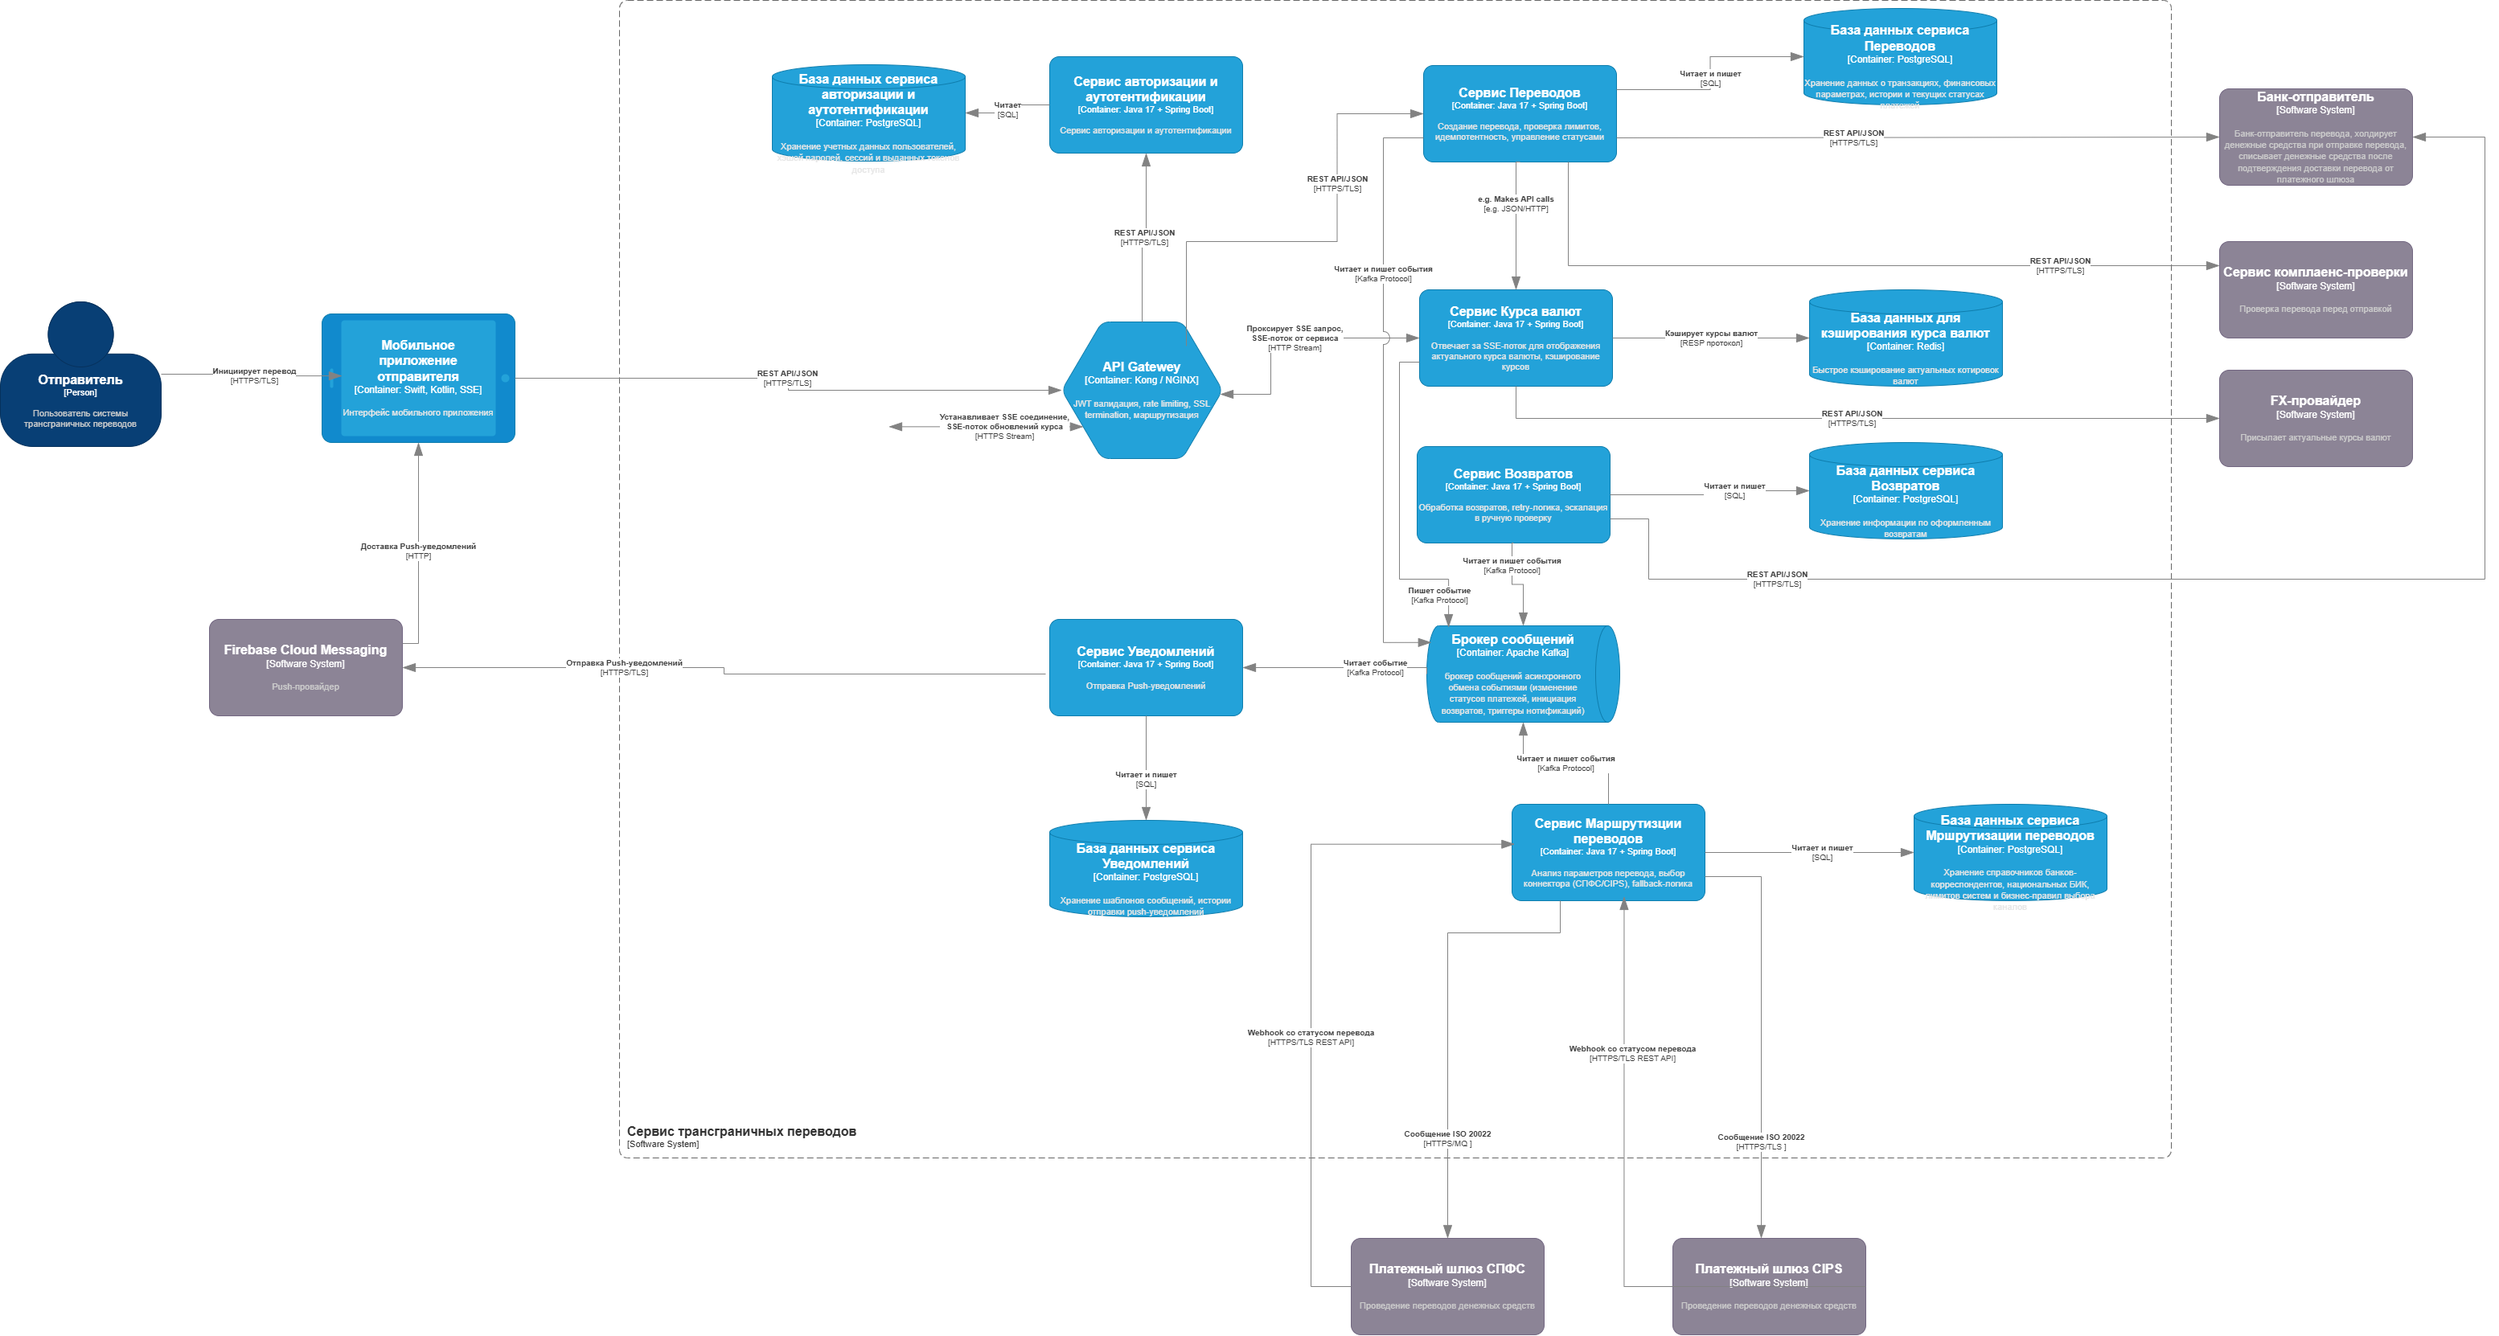
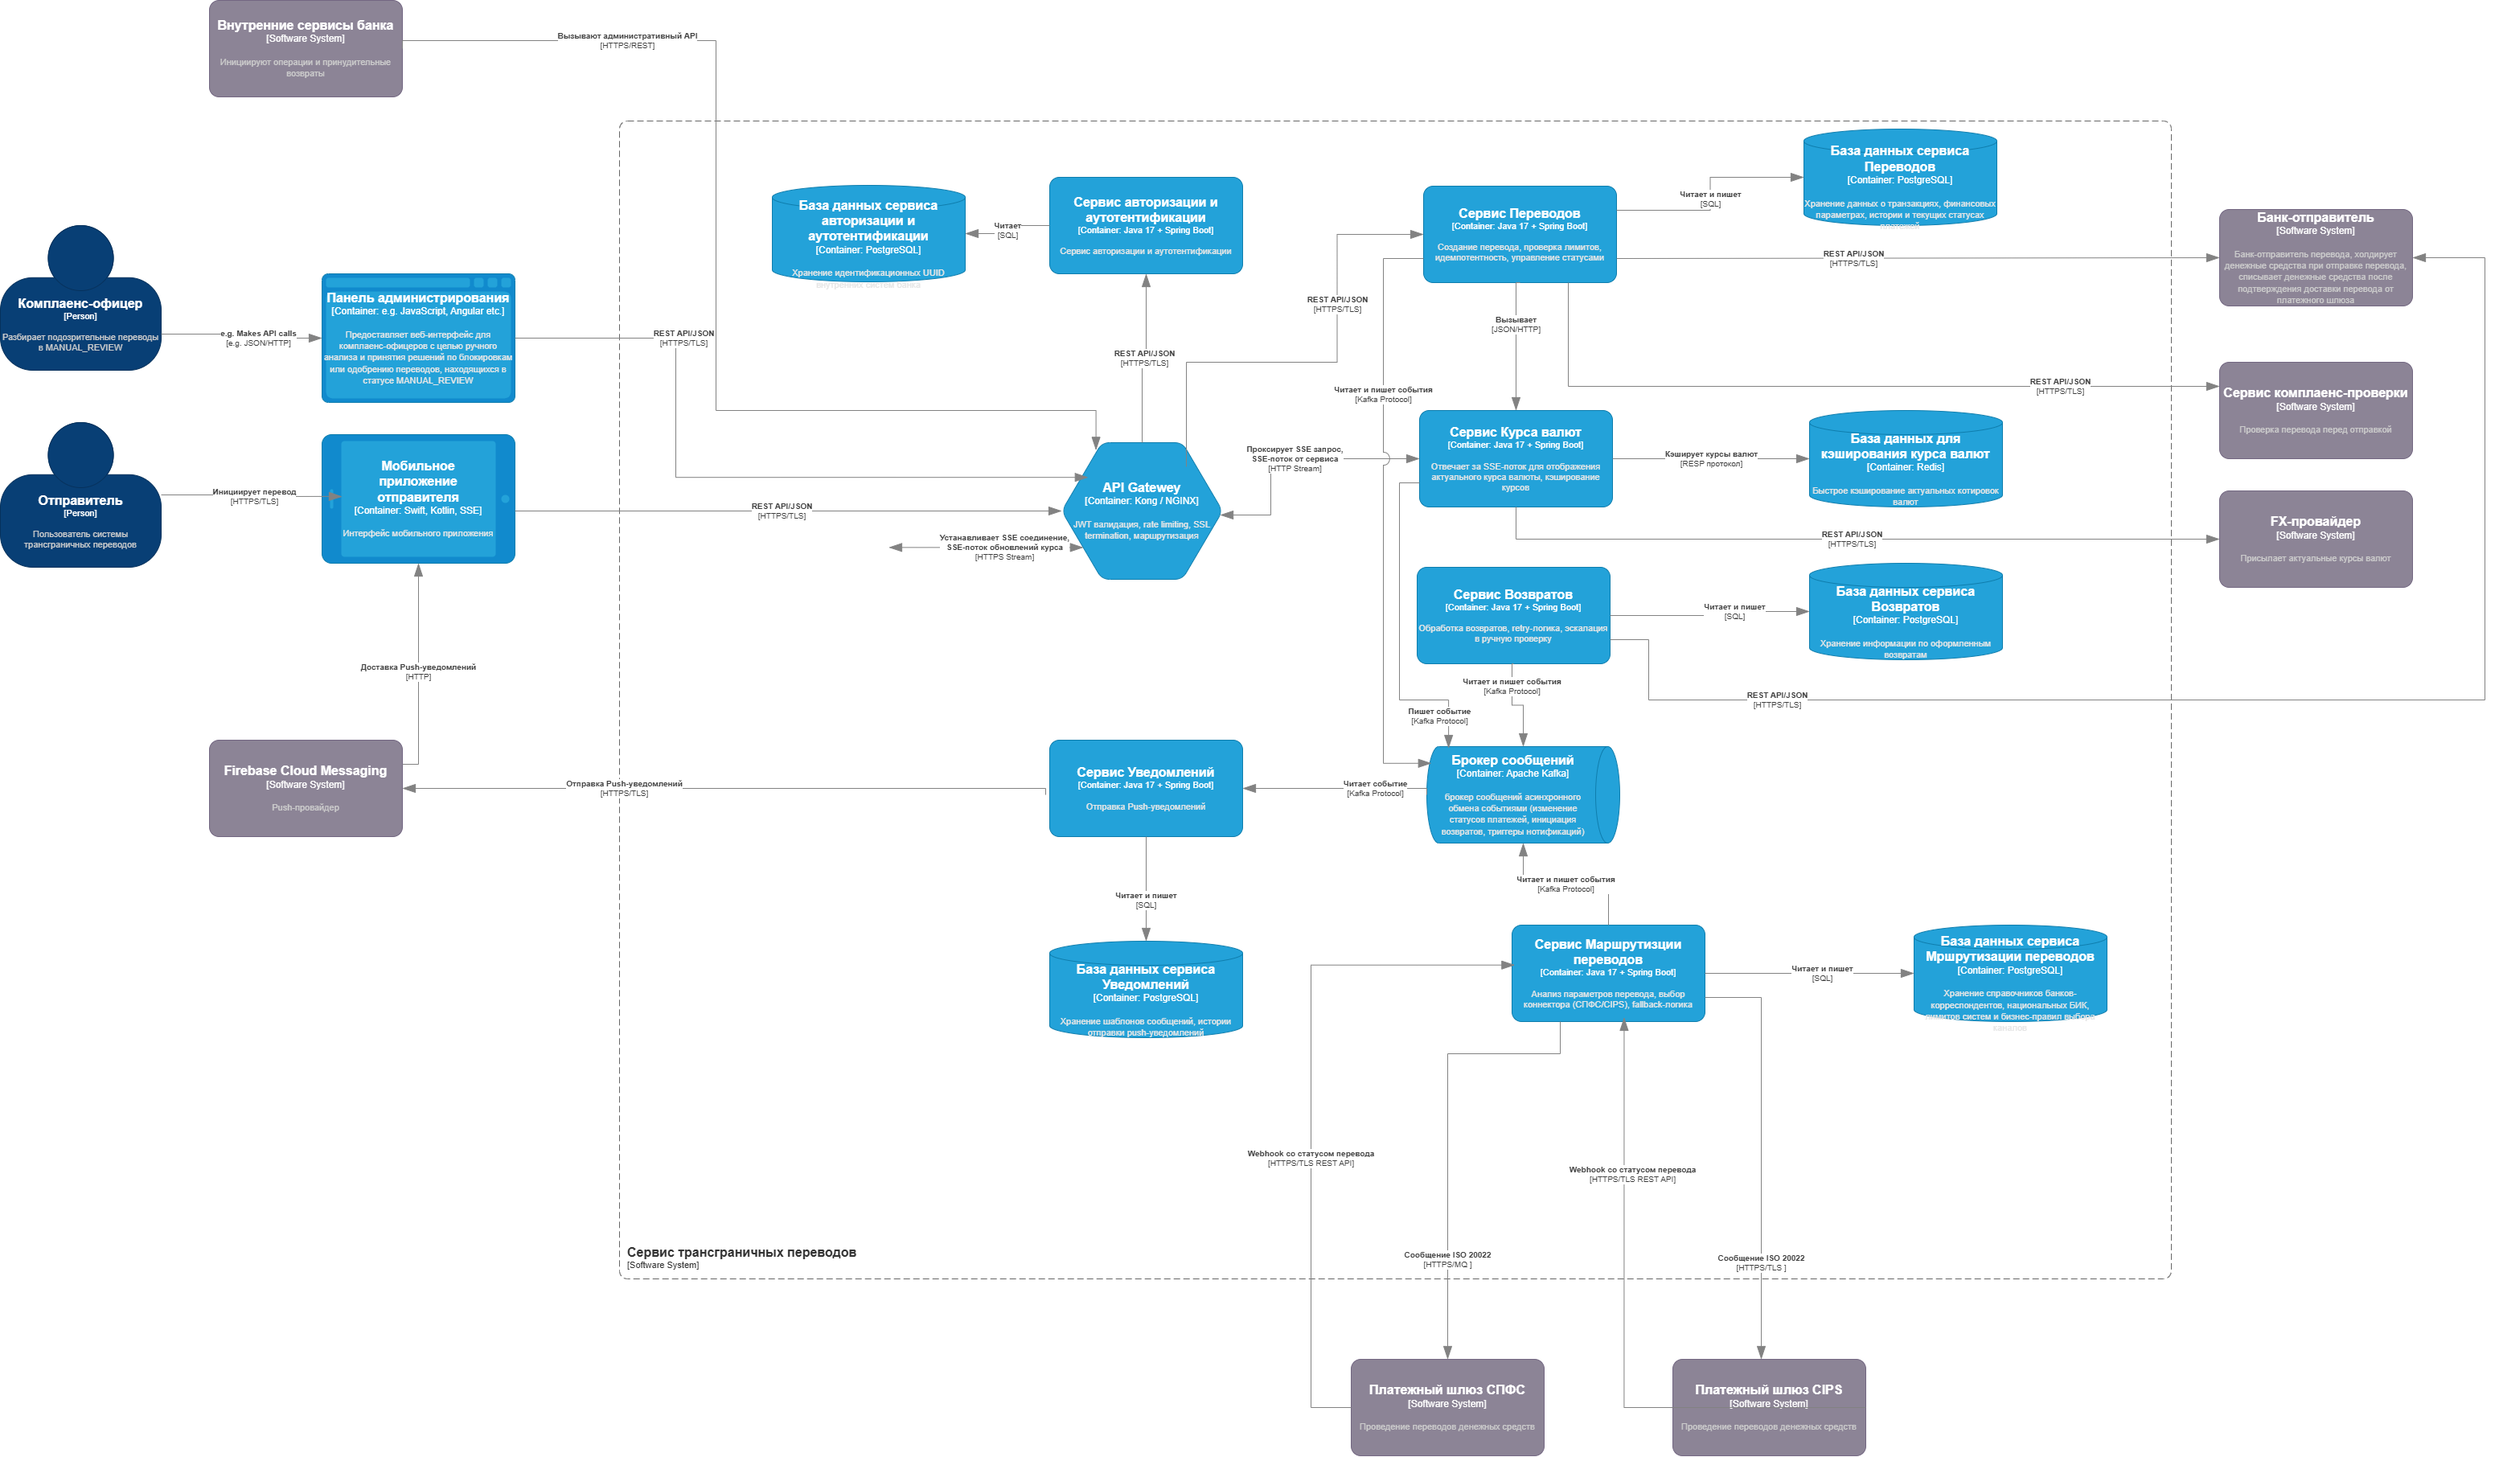
Дополнить диаграмму С4, дополнить архитектурным решением

diff --git a/02-architecture/Архитектура проекта.md b/02-architecture/Архитектура проекта.md
@@ -38,9 +38,34 @@
 
 ![C4 Уровень С1. Контекст](c4-context.png)
 
-
 ### 3.2. Уровень С2. Контейнеры
 
 Показывает систему на уровне контейнеров и их взаимодействие
 
 ![C4 Уровень С2. Контейнер](c4-container.png)
+
+## 4. Архитектурная стратегия
+
+Для сервиса трансграничных переводов выбрана микросервисная архитектура, потому что:
+
+1. Независимое масштабирование - каждый сервис можно масштабировать отдельно в зависимости от операционной нагрузки
+2. Разделение ответственности - каждый сервис отвечает за свою строго изолированную доменную область (Переводы, Маршрутизация, Возвраты, Уведомления, Курсы Валют)
+3. Технологическая гибкость - возможность использовать оптимальный стек технологий и библиотек для конкретных задач
+4. Отказоустойчивость - технический сбой или аварийное падение одного сервиса не влияет на прохождение и обработку транзакций в других изолированных компонентах системы
+5. Интеграция с внешними системами - каждый сервис может иметь свою обособленную интеграцию (МС Переводов интегрирован с Банком-отправителем и Сервисом комплаенса, а МС Маршрутизации — со шлюзами СПФС/CIPS)
+
+### Ключевые архитектурные решения
+
+1. API Gateway - единая точка входа для клиентских и внутренних запросов, обеспечивающая сквозную маршрутизацию, авторизацию (JWT/ApiKeyAuth) и защиту бэкенда
+2. Apache Kafka - брокер сообщений для асинхронной обработки событий между микросервисами, гарантирующий строгую упорядоченность доставки через ключи партиционирования
+3. Server-Sent Events (SSE) - технология однонаправленного стриминга данных по протоколу HTTP для трансляции изменений курса валют на мобильное приложение в реальном времени
+4. Redis - база данных для кэширования актуальных котировок
+5. PostgreSQL - реляционная БД для каждого сервиса для изоляции данных
+6. Transactional Outbox - паттерн гарантированной асинхронной доставки событий в брокер Kafka, исключающий потерю сообщений при временной недоступности сети или инфраструктуры
+
+### Обоснование нагрузки и количество экземпляров
+
+1. Интенсивность бизнес-транзакций - целевой объем в 50 000 переводов в месяц при стандартном банковском коэффициенте пиковой неравномерности трафика формирует расчетную пиковую нагрузку на создание операций на уровне 0.285 запросов в секунду (RPS)
+2. Пропускная способность контура UI - с учетом SSE-стриминга курсов и пагинации списков истории, сопутствующая пиковая нагрузка от мобильных клиентов составляет до 5.77 RPS
+3. Инженерный запас прочности - заложенная в требованиях пропускная способность в 100 RPS выступает фактором, гарантирующим стабильность системы при повторных запросах после сбоев внешних шлюзов
+4. Развертывание инстансов - для обеспечения целевых 100 RPS каждый ключевой микросервис разворачивается в количестве 4 инстансов

diff --git a/01-requirements/НФТ.md b/01-requirements/НФТ.md
@@ -26,7 +26,7 @@
 | НФТ-7 | | Время переподключения SSE при обрыве | Переподключение должно происходить в течение 3 секунд |
 | НФТ-8 | | Таймаут запроса к FX-сервису | Запрос курса валют должен завершаться в течение 3 секунд |
 | НФТ-9 | | Таймаут запроса к Банку-отправителю (холдирование) | Запрос на холдирование средств должен завершаться в течение 10 секунд |
-| НФТ-10 | | Пропускная способность системы | Система должна поддерживать не менее 100 RPS (переводов в секунду) |
+| НФТ-10 | | Пропускная способность системы | Система должна поддерживать не менее 100 RPS суммарной ёмкости всего API, из них не менее 10 RPS на создание переводов |
 | НФТ-11 | **Безопасность** | Шифрование данных в покое | Все персональные данные и финансовые операции должны шифроваться алгоритмом AES-256 |
 | НФТ-12 | | Шифрование данных при передаче | Все коммуникации должны использовать TLS 1.3 |
 | НФТ-13 | | Защита от повторных атак | Использование Idempotency-Key (UUID) для всех финансовых операций |
